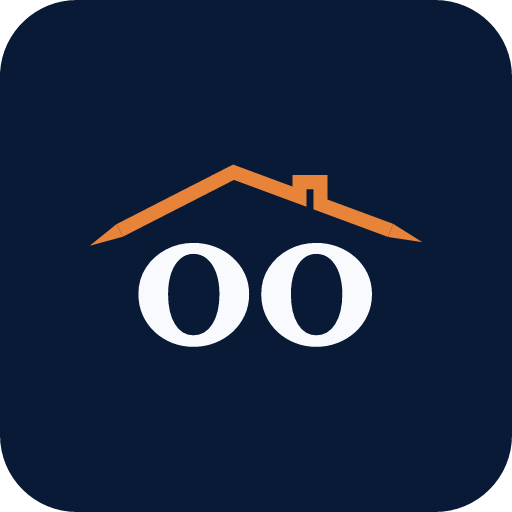
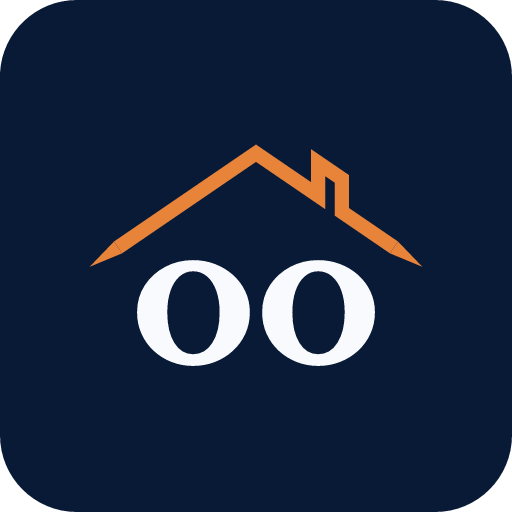
brand: match roofline to approved reference (centered peak, zigzag notch)
Re-centers the peak (was 8% off-center left) and steepens the pitch to
~34deg symmetric on both slopes, matched directly off a reference image
via pixel measurement + linear regression rather than eyeballed. Reworks
the chimney notch into a zigzag/lightning-bolt shape — the "across"
segment is now diagonal, parallel to the roofline's own slope, instead
of a flat horizontal chimney-stack top. Chimney height increased to 35%
of peak height (was 25%) to match. Regenerated every dependent asset from
the single master path.

Changed region(s): [[0.25, 0.4688, 0.75, 0.7188], [0.4062, 0.2812, 0.8125, 0.5312], [0.1875, 0.3438, 0.4062, 0.5312]]

diff --git a/frontend/src/pages/Brand.tsx b/frontend/src/pages/Brand.tsx
@@ -126,7 +126,7 @@ export default function Brand() {
           <section className="border-t border-slate-300 pt-8">
             <h2 className="text-xl font-semibold mb-1" style={{ color: NAVY }}>Wordmark</h2>
             <p className="text-slate-500 mb-6 max-w-2xl">
-              Libre Baskerville Bold + IBM Plex Sans Medium tagline, paths only. Roofline is a single stroke path — steep ~27° rise to an off-center peak, chimney notch on the shallower descent, tapered pen-stroke tips at both eaves — reused identically in the monogram below.
+              Libre Baskerville Bold + IBM Plex Sans Medium tagline, paths only. Roofline is a single stroke path — steep ~34° symmetric pitch to a centered peak, a zigzag notch (diagonal top parallel to the slope, not a flat chimney box) on the descent, tapered pen-stroke tips at both eaves — reused identically in the monogram below.
             </p>
             <div className="flex flex-wrap gap-10">
               <Swatch bg={PAPER} src="/brand/logo-full.svg" size={140} sizeLabel="full size — light bg" />

diff --git a/scripts/brand-logo/build_logo.py b/scripts/brand-logo/build_logo.py
@@ -165,20 +165,23 @@ def bbox_of(pts):
 
 def pitched_roofline_path(
     left, right, top_of_o, o_height, stroke_weight,
-    eave_ratio=0.08, gap_ratio=0.12, peak_rise_ratio=0.68, peak_offset_ratio=0.08,
-    chimney_t=0.42, chimney_w_ratio=0.09, chimney_h_of_peak_ratio=0.25,
+    eave_ratio=0.08, gap_ratio=0.12, peak_rise_ratio=1.01, peak_offset_ratio=0.0,
+    chimney_t=0.45, chimney_w_ratio=0.10, chimney_h_of_peak_ratio=0.35,
     include_chimney=True, taper_len_mult=2.4,
 ):
     """Single source of truth for the roofline.
 
-    A steep, confident rise from the left eave to an off-center peak (slightly
-    left of the oo gap, ~27deg), a shallower descent to the right eave with a
-    small rectangular chimney notch (up/across/down, sized off peak height)
-    unless include_chimney=False (16px favicon cut, where the notch doesn't
-    survive). The main line is a plain stroke (fill:none) — plain SVG strokes
-    can't taper, so the two eave ends get small solid-filled triangular caps
-    in the same color that extend the stroke's flat butt-cap into a fine
-    point, faking a brush/pen taper without any gradient or opacity trick.
+    A steep, confident rise from the left eave to a centered peak (~34deg,
+    matching the approved reference), descending symmetrically to the right
+    eave with a small zigzag notch — up (vertical), across (diagonal,
+    parallel to the roofline's own slope, not horizontal — this is what
+    gives it the lightning-bolt look rather than a flat-topped chimney
+    stack), down (vertical) — unless include_chimney=False (16px favicon
+    cut, where the notch doesn't survive). The main line is a plain stroke
+    (fill:none) — plain SVG strokes can't taper, so the two eave ends get
+    small solid-filled triangular caps in the same color that extend the
+    stroke's flat butt-cap into a fine point, faking a brush/pen taper
+    without any gradient or opacity trick.
 
     Returns a dict: main_d, left_taper_d, right_taper_d, span_left, span_right,
     visual_left, visual_right (span extended by the taper tips), peak_y, base_y.
@@ -202,10 +205,12 @@ def pitched_roofline_path(
         t = chimney_t
         ax = peak_pt[0] + (right_pt[0] - peak_pt[0]) * t
         ay = peak_pt[1] + (right_pt[1] - peak_pt[1]) * t
+        slope_dydx = (right_pt[1] - peak_pt[1]) / (right_pt[0] - peak_pt[0])
         chimney_w = chimney_w_ratio * span
         chimney_h = chimney_h_of_peak_ratio * peak_rise
         bx, by = ax, ay + chimney_h
-        cx2, cy2 = bx + chimney_w, by
+        cx2 = bx + chimney_w
+        cy2 = by + chimney_w * slope_dydx
         t2 = (cx2 - peak_pt[0]) / (right_pt[0] - peak_pt[0])
         dy = peak_pt[1] + (right_pt[1] - peak_pt[1]) * t2
         d_pt = (cx2, dy)
